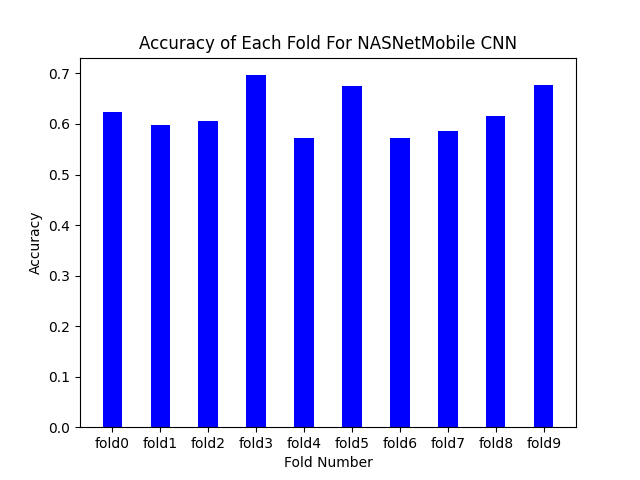
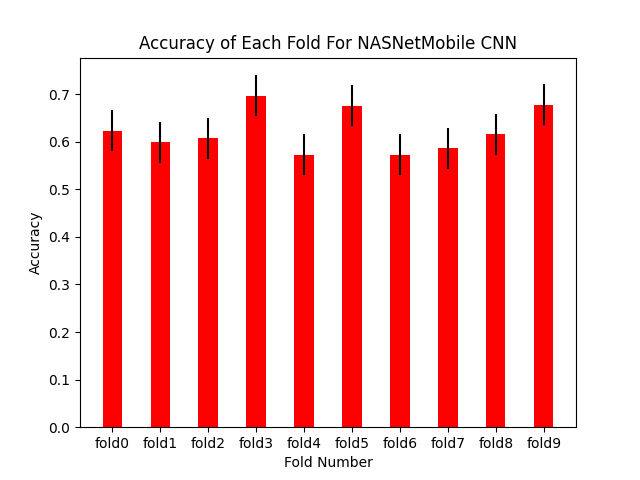
make graphs more detailed

diff --git a/MobileNetGraphs.py b/MobileNetGraphs.py
@@ -1,5 +1,5 @@
 import matplotlib.pyplot as plt
-
+import numpy as np
 acc = [[0.24425727128982544, 0.45099541544914246, 0.5222052335739136, 0.5918835997581482, 0.6140888333320618, 0.6523736715316772, 0.6692190170288086, 0.6852986216545105, 0.7113323211669922, 0.7350689172744751, 0.7480857372283936, 0.7833077907562256, 0.7986217737197876, 0.8047473430633545, 0.8376722931861877], [0.2536398470401764, 0.44674330949783325, 0.5256704688072205, 0.5716475248336792, 0.6160919666290283, 0.6337164640426636, 0.6796934604644775, 0.6919540166854858, 0.7042145729064941, 0.7417624592781067, 0.7524904012680054, 0.7647509574890137, 0.8107279539108276, 0.8061302900314331, 0.8390804529190063], [0.25631216168403625, 0.4667176604270935, 0.5325171947479248, 0.5707727670669556, 0.6120887398719788, 0.6541698575019836, 0.6679418683052063, 0.7084927558898926, 0.7245600819587708, 0.7505738139152527, 0.7666411399841309, 0.782708466053009, 0.8087222576141357, 0.824024498462677, 0.8355011343955994], [0.2647283971309662, 0.45371079444885254, 0.5424636602401733, 0.5983167290687561, 0.614384114742279, 0.6396327614784241, 0.6648814082145691, 0.7092578411102295, 0.7268553972244263, 0.7513389587402344, 0.7620505094528198, 0.7980107069015503, 0.8048967123031616, 0.8171384930610657, 0.8339709043502808], [0.2670237123966217, 0.4621270000934601, 0.5317521095275879, 0.5707727670669556, 0.6281560659408569, 0.6602907180786133, 0.6710022687911987, 0.7046671509742737, 0.7383320331573486, 0.7505738139152527, 0.7735271453857422, 0.790359616279602, 0.8102524876594543, 0.8087222576141357, 0.8278500437736511], [0.29762816429138184, 0.47666412591934204, 0.5439938902854919, 0.5776587724685669, 0.6128538846969604, 0.6641163229942322, 0.6755929589271545, 0.7000765204429626, 0.7276204824447632, 0.74521803855896, 0.7597551941871643, 0.7857689261436462, 0.7796480655670166, 0.8209640383720398, 0.8309105038642883], [0.2417750507593155, 0.45600610971450806, 0.5416985750198364, 0.5860750079154968, 0.6243305206298828, 0.6511093974113464, 0.68630450963974, 0.698546290397644, 0.7230298519134521, 0.7490435838699341, 0.7704667448997498, 0.778117835521698, 0.7941851615905762, 0.8064269423484802, 0.8408569097518921], [0.2195868343114853, 0.45906656980514526, 0.5386381149291992, 0.5921958684921265, 0.6136189699172974, 0.6465187668800354, 0.6725324988365173, 0.7092578411102295, 0.7299158573150635, 0.7467482686042786, 0.7704667448997498, 0.782708466053009, 0.8140780329704285, 0.8133129477500916, 0.8255547285079956], [0.2467532455921173, 0.4675324559211731, 0.5446906089782715, 0.5974025726318359, 0.6264324188232422, 0.6546982526779175, 0.6990068554878235, 0.6967150568962097, 0.7226890921592712, 0.7410236597061157, 0.7501909732818604, 0.7700534462928772, 0.7990832924842834, 0.8174178600311279, 0.8426279425621033], [0.23583461344242096, 0.447932630777359, 0.5306278467178345, 0.5551301836967468, 0.6094946265220642, 0.6401225328445435, 0.6577335596084595, 0.6868300437927246, 0.6990811824798584, 0.7381317019462585, 0.7450229525566101, 0.7641654014587402, 0.7963246703147888, 0.8323124051094055, 0.8200612664222717]]
 
 val_acc = [[0.3561643958091736, 0.45890411734580994, 0.5410959124565125, 0.5479452013969421, 0.5479452013969421, 0.5616438388824463, 0.5821917653083801, 0.5821917653083801, 0.5890411138534546, 0.5958904027938843, 0.6095890402793884, 0.6027397513389587, 0.6164383292198181, 0.5958904027938843, 0.6164383292198181], [0.27210885286331177, 0.4217686951160431, 0.4625850319862366, 0.49659863114356995, 0.4897959232330322, 0.5170068144798279, 0.523809552192688, 0.5442177057266235, 0.5374149680137634, 0.5442177057266235, 0.557823121547699, 0.5646258592605591, 0.5918367505073547, 0.5850340127944946, 0.5782312750816345], [0.2896551787853241, 0.4206896424293518, 0.4689655303955078, 0.5034482479095459, 0.5586206912994385, 0.5517241358757019, 0.5517241358757019, 0.565517246723175, 0.5931034684181213, 0.5931034684181213, 0.6137930750846863, 0.6068965792655945, 0.6206896305084229, 0.6137930750846863, 0.6275861859321594], [0.33103448152542114, 0.475862056016922, 0.565517246723175, 0.6000000238418579, 0.5862069129943848, 0.6068965792655945, 0.6137930750846863, 0.6275861859321594, 0.6068965792655945, 0.6413792967796326, 0.634482741355896, 0.6620689630508423, 0.6482758522033691, 0.6551724076271057, 0.6620689630508423], [0.317241370677948, 0.4482758641242981, 0.5379310250282288, 0.5448275804519653, 0.5448275804519653, 0.5793103575706482, 0.5862069129943848, 0.6068965792655945, 0.5931034684181213, 0.6000000238418579, 0.6413792967796326, 0.6275861859321594, 0.6137930750846863, 0.6206896305084229, 0.6206896305084229], [0.3379310369491577, 0.4482758641242981, 0.5310344696044922, 0.5724138021469116, 0.5793103575706482, 0.6000000238418579, 0.6000000238418579, 0.6137930750846863, 0.6137930750846863, 0.6482758522033691, 0.634482741355896, 0.6482758522033691, 0.6551724076271057, 0.6551724076271057, 0.6896551847457886], [0.30344828963279724, 0.4137931168079376, 0.46206897497177124, 0.5517241358757019, 0.565517246723175, 0.5517241358757019, 0.6000000238418579, 0.5931034684181213, 0.6000000238418579, 0.5862069129943848, 0.6000000238418579, 0.6000000238418579, 0.6000000238418579, 0.6068965792655945, 0.6137930750846863], [0.3103448152542114, 0.4000000059604645, 0.4965517222881317, 0.5103448033332825, 0.517241358757019, 0.5241379141807556, 0.5241379141807556, 0.5310344696044922, 0.517241358757019, 0.5379310250282288, 0.5379310250282288, 0.5379310250282288, 0.5517241358757019, 0.5379310250282288, 0.5379310250282288], [0.32867133617401123, 0.46853145956993103, 0.5174825191497803, 0.5664335489273071, 0.5734265446662903, 0.5804196000099182, 0.5874125957489014, 0.6013985872268677, 0.6013985872268677, 0.6083915829658508, 0.6013985872268677, 0.6083915829658508, 0.6013985872268677, 0.6083915829658508, 0.6293706297874451], [0.3493150770664215, 0.4178082048892975, 0.4794520437717438, 0.5547945499420166, 0.568493127822876, 0.5821917653083801, 0.568493127822876, 0.5958904027938843, 0.6027397513389587, 0.5890411138534546, 0.6232876777648926, 0.6095890402793884, 0.6164383292198181, 0.6232876777648926, 0.6438356041908264]]
@@ -12,9 +12,15 @@ accuracies = [0.6164383292198181, 0.5782312750816345, 0.6275861859321594, 0.6620
 
 losses = [1.1030313968658447, 1.2976514101028442, 1.1283830404281616, 1.0318074226379395, 1.2050573825836182, 0.9933460354804993, 1.1068115234375, 1.2364863157272339, 1.15812349319458, 1.1190871000289917]
 
+#avg_acc = np.mean(accuracies)
+#avg_losses = np.mean(losses)
+std_acc = np.std(accuracies)
+std_losses = np.std(losses)
+print(std_acc)
+print(std_losses)
 all_folds = ["fold0","fold1","fold2","fold3","fold4","fold5","fold6","fold7","fold8","fold9"]
 # creating the bar plot
-plt.bar(all_folds, accuracies, color ='blue',
+plt.bar(all_folds, accuracies, yerr=std_acc,color ='blue',
         width = 0.4)
 
 plt.xlabel("Fold Number")
@@ -23,7 +29,7 @@ plt.title("Accuracy of Each Fold For MobileNet CNN")
 plt.show()
 plt.close()
 
-plt.bar(all_folds, losses, color ='maroon',
+plt.bar(all_folds, losses, yerr=std_losses,color ='maroon',
         width = 0.4)
 
 plt.xlabel("Fold Number")
@@ -32,6 +38,7 @@ plt.title("Loss of Each Fold For MobileNet CNN")
 plt.show()
 plt.close()
 
+'''
 epochs = [1,2,3,4,5,6,7,8,9,10,11,12,13,14,15]
 
 plt.title('Model Accuracy For MobileNet')
@@ -51,4 +58,5 @@ plt.plot(epochs,loss[0],'r',epochs,val_loss[0],'b',epochs,loss[1],'r',epochs,val
 ,epochs,loss[6],'r',epochs,val_loss[6],'b',epochs,loss[7],'r',epochs,val_loss[7],'b',epochs,loss[8],'r',epochs,val_loss[8],'b',epochs,loss[9],'r',epochs,val_loss[9],'b')
 plt.show()
 plt.close()
+'''
 

diff --git a/NASNetGraphs.py b/NASNetGraphs.py
@@ -1,5 +1,5 @@
 import matplotlib.pyplot as plt
-
+import numpy as np
 acc = [[0.23353752493858337, 0.46477794647216797, 0.5459418296813965, 0.5903522372245789, 0.6171516180038452, 0.6447166800498962, 0.682235836982727, 0.7105666399002075, 0.7220520377159119, 0.741194486618042, 0.7771822214126587, 0.7702909708023071, 0.7924961447715759, 0.8192955851554871, 0.845329225063324], [0.2735632061958313, 0.4597701132297516, 0.5409961938858032, 0.5846743583679199, 0.6176245212554932, 0.6528735756874084, 0.6758620738983154, 0.6996168494224548, 0.7272030711174011, 0.7425287365913391, 0.7601532340049744, 0.7708812355995178, 0.807662844657898, 0.8183907866477966, 0.8306513428688049], [0.27390971779823303, 0.4659525752067566, 0.5501147508621216, 0.5822494029998779, 0.6266258358955383, 0.6480489373207092, 0.6847742795944214, 0.7146136164665222, 0.74521803855896, 0.732211172580719, 0.7628155946731567, 0.7941851615905762, 0.8003060221672058, 0.8148431777954102, 0.8324406743049622], [0.2440703958272934, 0.45983168482780457, 0.5164498686790466, 0.5853098630905151, 0.6166794300079346, 0.6465187668800354, 0.6809487342834473, 0.7092578411102295, 0.7291507124900818, 0.7436878085136414, 0.7758225202560425, 0.7850038409233093, 0.7934200167655945, 0.8010711669921875, 0.8439173698425293], [0.2838561534881592, 0.4912012219429016, 0.5409334301948547, 0.5960214138031006, 0.631981611251831, 0.6579954028129578, 0.6740627288818359, 0.6916602849960327, 0.7169089317321777, 0.7498087286949158, 0.7674062848091125, 0.7857689261436462, 0.8064269423484802, 0.8309105038642883, 0.8462126851081848], [0.2471308410167694, 0.45983168482780457, 0.548584520816803, 0.5921958684921265, 0.6266258358955383, 0.6465187668800354, 0.6679418683052063, 0.6947207450866699, 0.7039020657539368, 0.744452953338623, 0.757459819316864, 0.7773526906967163, 0.7957153916358948, 0.816373348236084, 0.8133129477500916], [0.27543994784355164, 0.4659525752067566, 0.5401683449745178, 0.5929609537124634, 0.6082631945610046, 0.6419280767440796, 0.6664116382598877, 0.6977812051773071, 0.7176740765571594, 0.7498087286949158, 0.7674062848091125, 0.7972456216812134, 0.8110175728797913, 0.824024498462677, 0.8423871397972107], [0.2685539424419403, 0.4858454465866089, 0.5371078848838806, 0.5799540877342224, 0.6197398900985718, 0.6442233920097351, 0.6931905150413513, 0.7107880711555481, 0.7176740765571594, 0.757459819316864, 0.7605202794075012, 0.7811782956123352, 0.7941851615905762, 0.8217291235923767, 0.8316755890846252], [0.23453018069267273, 0.44843390583992004, 0.5217723250389099, 0.5813598036766052, 0.6080977916717529, 0.6516425013542175, 0.660045862197876, 0.704354465007782, 0.7288005948066711, 0.7425515651702881, 0.7631779909133911, 0.779984712600708, 0.7845683693885803, 0.8036669492721558, 0.8334606289863586], [0.29173046350479126, 0.4624808430671692, 0.5329249501228333, 0.5834609270095825, 0.6163859367370605, 0.6316998600959778, 0.6738131642341614, 0.715926468372345, 0.7151607871055603, 0.733537495136261, 0.768759548664093, 0.7679938673973083, 0.7848392128944397, 0.8124042749404907, 0.8292496204376221]]
 
 val_acc = [[0.31506848335266113, 0.45205479860305786, 0.4726027250289917, 0.5136986374855042, 0.5547945499420166, 0.5616438388824463, 0.5616438388824463, 0.5821917653083801, 0.5958904027938843, 0.6095890402793884, 0.5890411138534546, 0.6027397513389587, 0.6095890402793884, 0.6164383292198181, 0.6232876777648926], [0.3401360511779785, 0.44897958636283875, 0.5102040767669678, 0.5442177057266235, 0.5306122303009033, 0.5306122303009033, 0.557823121547699, 0.5442177057266235, 0.5510203838348389, 0.5850340127944946, 0.5714285969734192, 0.5714285969734192, 0.5986394286155701, 0.6054421663284302, 0.5986394286155701], [0.3379310369491577, 0.4206896424293518, 0.517241358757019, 0.517241358757019, 0.5310344696044922, 0.5310344696044922, 0.5724138021469116, 0.5586206912994385, 0.5724138021469116, 0.6000000238418579, 0.5793103575706482, 0.6000000238418579, 0.6068965792655945, 0.6000000238418579, 0.6068965792655945], [0.35862070322036743, 0.4965517222881317, 0.5310344696044922, 0.5517241358757019, 0.5862069129943848, 0.6068965792655945, 0.6206896305084229, 0.634482741355896, 0.6413792967796326, 0.6551724076271057, 0.6551724076271057, 0.6482758522033691, 0.6689655184745789, 0.6689655184745789, 0.6965517401695251], [0.38620689511299133, 0.475862056016922, 0.5103448033332825, 0.5103448033332825, 0.5034482479095459, 0.5517241358757019, 0.565517246723175, 0.5586206912994385, 0.5517241358757019, 0.5724138021469116, 0.565517246723175, 0.5586206912994385, 0.565517246723175, 0.5793103575706482, 0.5724138021469116], [0.3103448152542114, 0.43448275327682495, 0.5448275804519653, 0.565517246723175, 0.6000000238418579, 0.5931034684181213, 0.6137930750846863, 0.6068965792655945, 0.634482741355896, 0.6413792967796326, 0.6482758522033691, 0.6620689630508423, 0.6620689630508423, 0.6551724076271057, 0.6758620738983154], [0.33103448152542114, 0.46206897497177124, 0.5241379141807556, 0.5448275804519653, 0.5862069129943848, 0.565517246723175, 0.5724138021469116, 0.6068965792655945, 0.6000000238418579, 0.6000000238418579, 0.5931034684181213, 0.6068965792655945, 0.5862069129943848, 0.5793103575706482, 0.5724138021469116], [0.3379310369491577, 0.4413793087005615, 0.475862056016922, 0.5103448033332825, 0.5379310250282288, 0.5793103575706482, 0.565517246723175, 0.565517246723175, 0.5724138021469116, 0.5724138021469116, 0.565517246723175, 0.5586206912994385, 0.5793103575706482, 0.5931034684181213, 0.5862069129943848], [0.3076923191547394, 0.4545454680919647, 0.4825174808502197, 0.503496527671814, 0.5314685106277466, 0.5734265446662903, 0.5664335489273071, 0.5734265446662903, 0.5874125957489014, 0.5804196000099182, 0.6223776340484619, 0.6223776340484619, 0.6013985872268677, 0.6083915829658508, 0.6153846383094788], [0.3287671208381653, 0.42465752363204956, 0.5136986374855042, 0.5410959124565125, 0.5547945499420166, 0.5753424763679504, 0.5821917653083801, 0.6164383292198181, 0.6232876777648926, 0.6301369667053223, 0.6369863152503967, 0.6506849527359009, 0.6575342416763306, 0.664383590221405, 0.6780821681022644]]
@@ -11,10 +11,13 @@ val_loss = [[1.9636462926864624, 1.593693733215332, 1.4306893348693848, 1.352299
 accuracies = [0.6232876777648926, 0.5986394286155701, 0.6068965792655945, 0.6965517401695251, 0.5724138021469116, 0.6758620738983154, 0.5724138021469116, 0.5862069129943848, 0.6153846383094788, 0.6780821681022644]
 
 losses = [1.095535159111023, 1.3225388526916504, 1.151173710823059, 0.993991494178772, 1.2790114879608154, 0.9642466306686401, 1.1880513429641724, 1.1763842105865479, 1.196566104888916, 1.0672625303268433]
-
+std_acc = np.std(accuracies)
+std_losses = np.std(losses)
+print(std_acc)
+print(std_losses)
 all_folds = ["fold0","fold1","fold2","fold3","fold4","fold5","fold6","fold7","fold8","fold9"]
 # creating the bar plot
-plt.bar(all_folds, accuracies, color ='blue',
+plt.bar(all_folds, accuracies, yerr=std_acc,color ='red',
         width = 0.4)
 
 plt.xlabel("Fold Number")
@@ -22,8 +25,8 @@ plt.ylabel("Accuracy")
 plt.title("Accuracy of Each Fold For NASNetMobile CNN")
 plt.show()
 plt.close()
-
-plt.bar(all_folds, losses, color ='maroon',
+'''
+plt.bar(all_folds, losses, yerr=std_losses,color ='maroon',
         width = 0.4)
 
 plt.xlabel("Fold Number")
@@ -51,4 +54,5 @@ plt.plot(epochs,loss[0],'r',epochs,val_loss[0],'b',epochs,loss[1],'r',epochs,val
 ,epochs,loss[6],'r',epochs,val_loss[6],'b',epochs,loss[7],'r',epochs,val_loss[7],'b',epochs,loss[8],'r',epochs,val_loss[8],'b',epochs,loss[9],'r',epochs,val_loss[9],'b')
 plt.show()
 plt.close()
+'''
 

diff --git a/ResNet50Graphs.py b/ResNet50Graphs.py
@@ -1,5 +1,5 @@
 import matplotlib.pyplot as plt
-
+import numpy as np
 acc = [[0.2886676788330078, 0.4762634038925171, 0.5459418296813965, 0.584226667881012, 0.6401225328445435, 0.6485452055931091, 0.6715160608291626, 0.7113323211669922, 0.7320061326026917, 0.7549770474433899, 0.7695252895355225, 0.8001531362533569, 0.8062787055969238, 0.8108729124069214, 0.8422664403915405], [0.29118773341178894, 0.460536390542984, 0.5310344696044922, 0.5892720222473145, 0.6245210766792297, 0.6475095748901367, 0.6689655184745789, 0.7019156813621521, 0.7264367938041687, 0.7593869566917419, 0.7586206793785095, 0.7900382876396179, 0.7938697338104248, 0.8168582320213318, 0.8367816209793091], [0.25325173139572144, 0.48048967123031616, 0.5302218794822693, 0.5845447778701782, 0.6289212107658386, 0.6419280767440796, 0.673297643661499, 0.7008416056632996, 0.7138485312461853, 0.7390971779823303, 0.7551645040512085, 0.7980107069015503, 0.7972456216812134, 0.8201989531517029, 0.8385615944862366], [0.2425401657819748, 0.45753633975982666, 0.514919638633728, 0.5631216764450073, 0.6074981093406677, 0.6419280767440796, 0.6809487342834473, 0.6840091943740845, 0.7245600819587708, 0.7314460873603821, 0.7559295892715454, 0.7804131507873535, 0.782708466053009, 0.8232593536376953, 0.836266279220581], [0.2685539424419403, 0.45830145478248596, 0.5279265642166138, 0.5860750079154968, 0.6373373866081238, 0.6503443121910095, 0.6931905150413513, 0.7100229263305664, 0.7306809425354004, 0.7597551941871643, 0.7719969153404236, 0.7811782956123352, 0.7880642414093018, 0.8247895836830139, 0.836266279220581], [0.2685539424419403, 0.4697781205177307, 0.5501147508621216, 0.5837796330451965, 0.62739098072052, 0.6411629915237427, 0.6717674136161804, 0.7130833864212036, 0.7260903120040894, 0.7390971779823303, 0.7689365148544312, 0.7704667448997498, 0.8041316270828247, 0.8171384930610657, 0.8324406743049622], [0.2425401657819748, 0.45371079444885254, 0.5462892055511475, 0.5914307832717896, 0.6228002905845642, 0.6755929589271545, 0.6755929589271545, 0.699311375617981, 0.7237949371337891, 0.744452953338623, 0.7582249641418457, 0.7941851615905762, 0.798775851726532, 0.8071920275688171, 0.8423871397972107], [0.25478193163871765, 0.4621270000934601, 0.5294567942619324, 0.5837796330451965, 0.6044376492500305, 0.6289212107658386, 0.652639627456665, 0.6893649697303772, 0.7176740765571594, 0.7299158573150635, 0.7467482686042786, 0.7697016000747681, 0.8026013970375061, 0.8018362522125244, 0.8309105038642883], [0.25974026322364807, 0.45301756262779236, 0.5339953899383545, 0.5653170347213745, 0.6080977916717529, 0.6508785486221313, 0.6440030336380005, 0.6959511041641235, 0.7066463232040405, 0.7417876124382019, 0.7608861923217773, 0.779984712600708, 0.7960274815559387, 0.8013750910758972, 0.8334606289863586], [0.2672281861305237, 0.4777947962284088, 0.5359877347946167, 0.5727412104606628, 0.6003062725067139, 0.639356791973114, 0.674578845500946, 0.688361406326294, 0.7067381143569946, 0.723583459854126, 0.758805513381958, 0.7802450060844421, 0.7955589294433594, 0.8139356970787048, 0.827718198299408]]
 
 val_acc = [[0.3493150770664215, 0.5, 0.5410959124565125, 0.568493127822876, 0.5890411138534546, 0.5890411138534546, 0.5890411138534546, 0.5753424763679504, 0.5821917653083801, 0.5821917653083801, 0.5958904027938843, 0.5890411138534546, 0.5821917653083801, 0.6095890402793884, 0.6095890402793884], [0.29931971430778503, 0.4625850319862366, 0.5034013390541077, 0.557823121547699, 0.5646258592605591, 0.5510203838348389, 0.5510203838348389, 0.5714285969734192, 0.5714285969734192, 0.5646258592605591, 0.5782312750816345, 0.5850340127944946, 0.6122449040412903, 0.6190476417541504, 0.6190476417541504], [0.35862070322036743, 0.45517241954803467, 0.5103448033332825, 0.5517241358757019, 0.5517241358757019, 0.5793103575706482, 0.5931034684181213, 0.5862069129943848, 0.6000000238418579, 0.6068965792655945, 0.6068965792655945, 0.6206896305084229, 0.6275861859321594, 0.634482741355896, 0.6206896305084229], [0.3655172288417816, 0.46206897497177124, 0.4689655303955078, 0.5310344696044922, 0.5586206912994385, 0.6000000238418579, 0.6137930750846863, 0.6137930750846863, 0.6413792967796326, 0.6206896305084229, 0.634482741355896, 0.6413792967796326, 0.6413792967796326, 0.6689655184745789, 0.6758620738983154], [0.32413792610168457, 0.475862056016922, 0.4965517222881317, 0.5517241358757019, 0.5448275804519653, 0.5793103575706482, 0.5931034684181213, 0.5862069129943848, 0.6000000238418579, 0.5931034684181213, 0.6068965792655945, 0.6137930750846863, 0.6137930750846863, 0.6275861859321594, 0.6275861859321594], [0.3724137842655182, 0.45517241954803467, 0.4965517222881317, 0.5517241358757019, 0.565517246723175, 0.6068965792655945, 0.6000000238418579, 0.6000000238418579, 0.6068965792655945, 0.5931034684181213, 0.6000000238418579, 0.6206896305084229, 0.6206896305084229, 0.6137930750846863, 0.6068965792655945], [0.2620689570903778, 0.4137931168079376, 0.4689655303955078, 0.5379310250282288, 0.5241379141807556, 0.5448275804519653, 0.5517241358757019, 0.5724138021469116, 0.5793103575706482, 0.5862069129943848, 0.6137930750846863, 0.6206896305084229, 0.6206896305084229, 0.6068965792655945, 0.6275861859321594], [0.2620689570903778, 0.40689656138420105, 0.4482758641242981, 0.475862056016922, 0.5241379141807556, 0.5448275804519653, 0.5310344696044922, 0.5586206912994385, 0.5517241358757019, 0.5517241358757019, 0.565517246723175, 0.5793103575706482, 0.5517241358757019, 0.5793103575706482, 0.5862069129943848], [0.30069929361343384, 0.4755244851112366, 0.5384615659713745, 0.5664335489273071, 0.5874125957489014, 0.5804196000099182, 0.5874125957489014, 0.5804196000099182, 0.6013985872268677, 0.5804196000099182, 0.6153846383094788, 0.5874125957489014, 0.6013985872268677, 0.6013985872268677, 0.6083915829658508], [0.3561643958091736, 0.4931506812572479, 0.5616438388824463, 0.5890411138534546, 0.6027397513389587, 0.6232876777648926, 0.6438356041908264, 0.6438356041908264, 0.6438356041908264, 0.6438356041908264, 0.6575342416763306, 0.664383590221405, 0.6780821681022644, 0.6712328791618347, 0.664383590221405]]
@@ -10,10 +10,13 @@ val_loss = [[1.9158968925476074, 1.5608054399490356, 1.421839714050293, 1.339538
 
 accuracies = [0.6095890402793884, 0.6190476417541504, 0.6206896305084229, 0.6758620738983154, 0.6275861859321594, 0.6068965792655945, 0.6275861859321594, 0.5862069129943848, 0.6083915829658508, 0.664383590221405]
 losses = [1.0994912385940552, 1.282256007194519, 1.0845530033111572, 1.0391649007797241, 1.217873454093933, 1.053863286972046, 1.1818289756774902, 1.2370439767837524, 1.097583293914795, 1.0387109518051147]
-
+std_acc = np.std(accuracies)
+std_losses = np.std(losses)
+print(std_acc)
+print(std_losses)
 all_folds = ["fold0","fold1","fold2","fold3","fold4","fold5","fold6","fold7","fold8","fold9"]
 # creating the bar plot
-plt.bar(all_folds, accuracies, color ='blue',
+plt.bar(all_folds, accuracies, yerr=std_acc,color ='green',
         width = 0.4)
 
 plt.xlabel("Fold Number")
@@ -21,8 +24,8 @@ plt.ylabel("Accuracy")
 plt.title("Accuracy of Each Fold For RESNet50 CNN")
 plt.show()
 plt.close()
-
-plt.bar(all_folds, losses, color ='maroon',
+'''
+plt.bar(all_folds, losses, yerr=std_losses,color ='maroon',
         width = 0.4)
 
 plt.xlabel("Fold Number")
@@ -50,4 +53,4 @@ plt.plot(epochs,loss[0],'r',epochs,val_loss[0],'b',epochs,loss[1],'r',epochs,val
 ,epochs,loss[6],'r',epochs,val_loss[6],'b',epochs,loss[7],'r',epochs,val_loss[7],'b',epochs,loss[8],'r',epochs,val_loss[8],'b',epochs,loss[9],'r',epochs,val_loss[9],'b')
 plt.show()
 plt.close()
-
+'''
